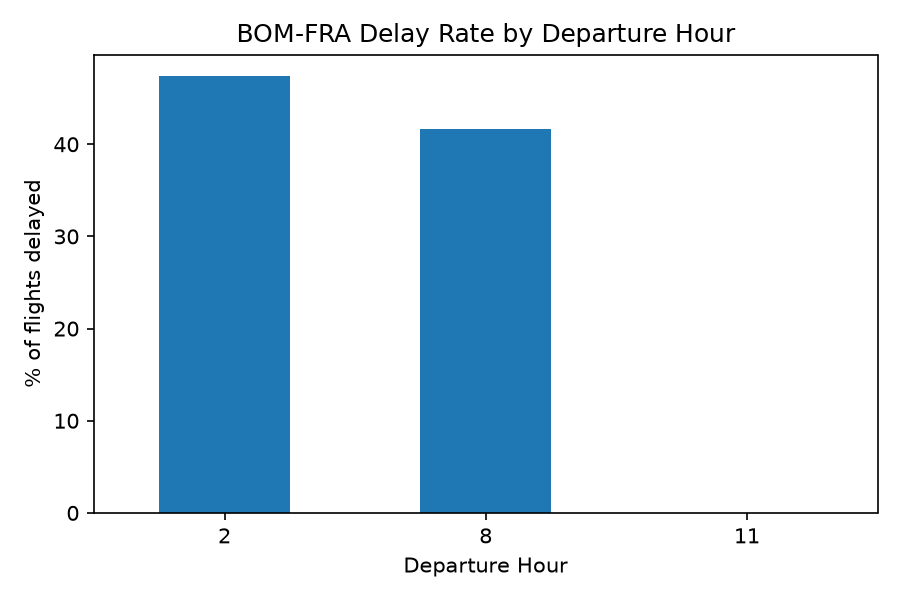
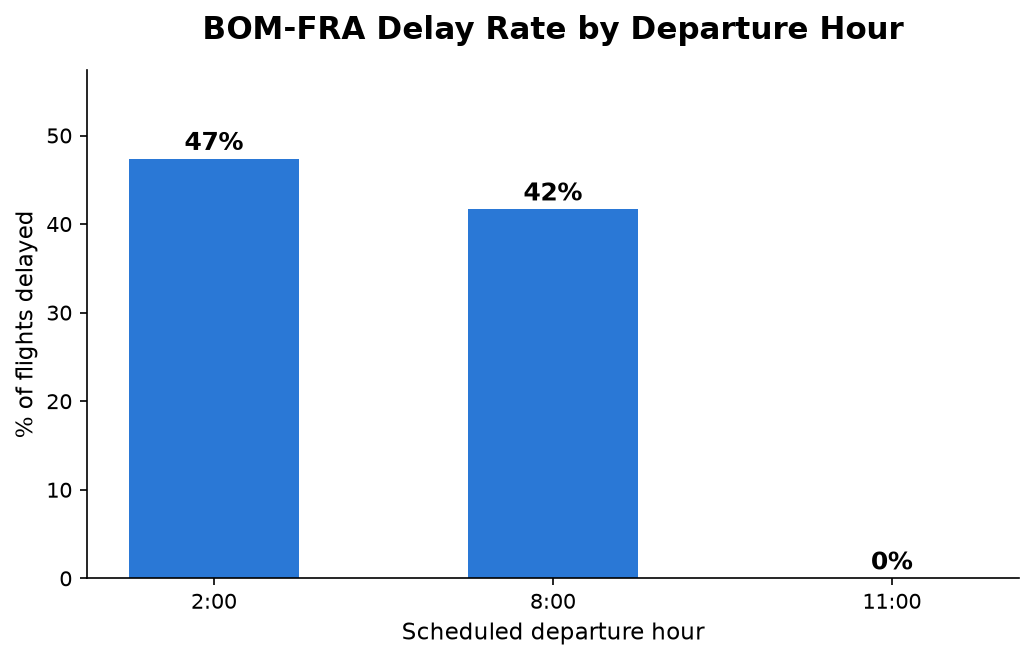
readme update, streamlit app addition

Changed region(s): [[0.0, 0.0, 0.9956, 0.99]]

diff --git a/app.py b/app.py
@@ -1,0 +1,238 @@
+import streamlit as st
+import pandas as pd
+import plotly.graph_objects as go
+
+st.set_page_config(page_title="RouteWatch", page_icon="✈", layout="centered")
+
+st.markdown("""
+<style>
+@import url('https://fonts.googleapis.com/css2?family=JetBrains+Mono:wght@400;500;700&family=Inter:wght@400;500;600&display=swap');
+
+html, body, [class*="css"] {
+    font-family: 'Inter', sans-serif;
+}
+
+.stApp {
+    background-color: #0B1220;
+    color: #E8E6DE;
+}
+
+section[data-testid="stSidebar"] { display: none; }
+
+.rw-header {
+    display: flex;
+    align-items: baseline;
+    gap: 12px;
+    margin-bottom: 4px;
+    padding-top: 8px;
+}
+
+.rw-title {
+    font-family: 'JetBrains Mono', monospace;
+    font-weight: 700;
+    font-size: 30px;
+    color: #F2A93B;
+    letter-spacing: 1px;
+}
+
+.rw-sub {
+    font-size: 14px;
+    color: #8A94A6;
+    margin-bottom: 28px;
+}
+
+.rw-card {
+    background: #131C2E;
+    border: 1px solid #1F2A3E;
+    border-radius: 10px;
+    padding: 18px 20px;
+    margin-bottom: 10px;
+}
+
+.rw-card-label {
+    font-size: 12px;
+    color: #8A94A6;
+    text-transform: uppercase;
+    letter-spacing: 1px;
+    margin-bottom: 6px;
+}
+
+.rw-card-value {
+    font-family: 'JetBrains Mono', monospace;
+    font-size: 32px;
+    font-weight: 700;
+    color: #F2A93B;
+}
+
+.rw-board {
+    background: #131C2E;
+    border: 1px solid #1F2A3E;
+    border-radius: 10px;
+    overflow: hidden;
+    margin-top: 8px;
+}
+
+.rw-board-row {
+    display: flex;
+    align-items: center;
+    justify-content: space-between;
+    padding: 14px 20px;
+    border-bottom: 1px solid #1F2A3E;
+    font-family: 'JetBrains Mono', monospace;
+}
+
+.rw-board-row:last-child { border-bottom: none; }
+
+.rw-route-code {
+    font-size: 16px;
+    font-weight: 700;
+    color: #E8E6DE;
+    min-width: 110px;
+}
+
+.rw-status-dot {
+    display: inline-block;
+    width: 8px;
+    height: 8px;
+    border-radius: 50%;
+    margin-right: 8px;
+}
+
+.rw-dot-good { background: #3ECF8E; box-shadow: 0 0 6px #3ECF8E; }
+.rw-dot-bad { background: #E85D4A; box-shadow: 0 0 6px #E85D4A; }
+
+.rw-flights-count {
+    font-size: 13px;
+    color: #8A94A6;
+    font-family: 'Inter', sans-serif;
+}
+
+.rw-delay-pct {
+    font-size: 18px;
+    font-weight: 700;
+    min-width: 60px;
+    text-align: right;
+}
+
+.rw-section-label {
+    font-family: 'JetBrains Mono', monospace;
+    font-size: 12px;
+    color: #8A94A6;
+    text-transform: uppercase;
+    letter-spacing: 2px;
+    margin: 32px 0 10px;
+}
+
+div[data-baseweb="select"] > div {
+    background-color: #131C2E !important;
+    border-color: #1F2A3E !important;
+}
+
+.rw-footer {
+    font-size: 12px;
+    color: #5A6478;
+    margin-top: 36px;
+    padding-top: 16px;
+    border-top: 1px solid #1F2A3E;
+}
+</style>
+""", unsafe_allow_html=True)
+
+st.markdown("""
+<div class="rw-header">
+    <span class="rw-title">✈ ROUTEWATCH</span>
+</div>
+<div class="rw-sub">Live delay tracking across 3 self-collected India–Europe routes</div>
+""", unsafe_allow_html=True)
+
+
[email redacted]_data
+def load_data():
+    df = pd.read_csv('data/flights_log.csv')
+    df['dep_scheduled'] = pd.to_datetime(df['dep_scheduled'])
+    df['dep_actual'] = pd.to_datetime(df['dep_actual'])
+    df['arr_scheduled'] = pd.to_datetime(df['arr_scheduled'])
+    df['arr_actual'] = pd.to_datetime(df['arr_actual'])
+
+    complete = df[df['arr_actual'].notna()].copy()
+    complete['actual_arr_delay_min'] = (
+        complete['arr_actual'] - complete['arr_scheduled']
+    ).dt.total_seconds() / 60
+    complete['is_delayed'] = complete['actual_arr_delay_min'] >= 15
+    complete['dep_hour'] = complete['dep_scheduled'].dt.hour
+    return complete
+
+
+data = load_data()
+routes = sorted(data['route'].unique())
+
+st.markdown('<div class="rw-section-label">All routes</div>', unsafe_allow_html=True)
+
+overview = data.groupby('route')['is_delayed'].agg(['mean', 'count']).reindex(routes)
+board_rows = ""
+for route, row in overview.iterrows():
+    pct = row['mean'] * 100
+    dot_class = "rw-dot-bad" if pct >= 10 else "rw-dot-good"
+    color = "#E85D4A" if pct >= 10 else "#3ECF8E"
+    board_rows += f"""
+    <div class="rw-board-row">
+        <div style="display:flex; align-items:center;">
+            <span class="rw-status-dot {dot_class}"></span>
+            <span class="rw-route-code">{route}</span>
+        </div>
+        <span class="rw-flights-count">{int(row['count'])} flights</span>
+        <span class="rw-delay-pct" style="color:{color};">{pct:.0f}%</span>
+    </div>
+    """
+st.markdown(f'<div class="rw-board">{board_rows}</div>', unsafe_allow_html=True)
+
+st.markdown('<div class="rw-section-label">Route detail</div>', unsafe_allow_html=True)
+selected_route = st.selectbox("Choose a route", routes, label_visibility="collapsed")
+
+route_data = data[data['route'] == selected_route]
+delay_rate = route_data['is_delayed'].mean() * 100
+total_flights = len(route_data)
+delayed_count = int(route_data['is_delayed'].sum())
+
+col1, col2, col3 = st.columns(3)
+with col1:
+    st.markdown(f'<div class="rw-card"><div class="rw-card-label">Flights tracked</div><div class="rw-card-value">{total_flights}</div></div>', unsafe_allow_html=True)
+with col2:
+    st.markdown(f'<div class="rw-card"><div class="rw-card-label">Delay rate</div><div class="rw-card-value">{delay_rate:.0f}%</div></div>', unsafe_allow_html=True)
+with col3:
+    st.markdown(f'<div class="rw-card"><div class="rw-card-label">Delayed</div><div class="rw-card-value">{delayed_count}</div></div>', unsafe_allow_html=True)
+
+st.markdown('<div class="rw-section-label">Delay rate by departure hour</div>', unsafe_allow_html=True)
+
+hour_delay = route_data.groupby('dep_hour')['is_delayed'].mean() * 100
+hour_delay = hour_delay.reindex(sorted(hour_delay.index))
+hour_labels = [f"{h:02d}:00" for h in hour_delay.index]
+
+fig = go.Figure(data=[
+    go.Bar(
+        x=hour_labels,
+        y=hour_delay.values,
+        marker_color=['#E85D4A' if v >= 10 else '#3ECF8E' for v in hour_delay.values],
+        text=[f"{v:.0f}%" for v in hour_delay.values],
+        textposition='outside',
+        textfont=dict(family='JetBrains Mono', color='#E8E6DE'),
+    )
+])
+fig.update_layout(
+    paper_bgcolor='rgba(0,0,0,0)',
+    plot_bgcolor='rgba(0,0,0,0)',
+    font=dict(family='Inter', color='#8A94A6', size=12),
+    margin=dict(l=10, r=10, t=10, b=10),
+    height=280,
+    xaxis=dict(gridcolor='#1F2A3E', showgrid=False),
+    yaxis=dict(gridcolor='#1F2A3E', ticksuffix='%'),
+    showlegend=False,
+)
+st.plotly_chart(fig, use_container_width=True, config={'displayModeBar': False})
+
+st.markdown("""
+<div class="rw-footer">
+Data collected daily via a live flight API. Delay defined as 15+ minutes late, the industry-standard threshold.
+Full project reasoning in KNOWLEDGE.md.
+</div>
+""", unsafe_allow_html=True)